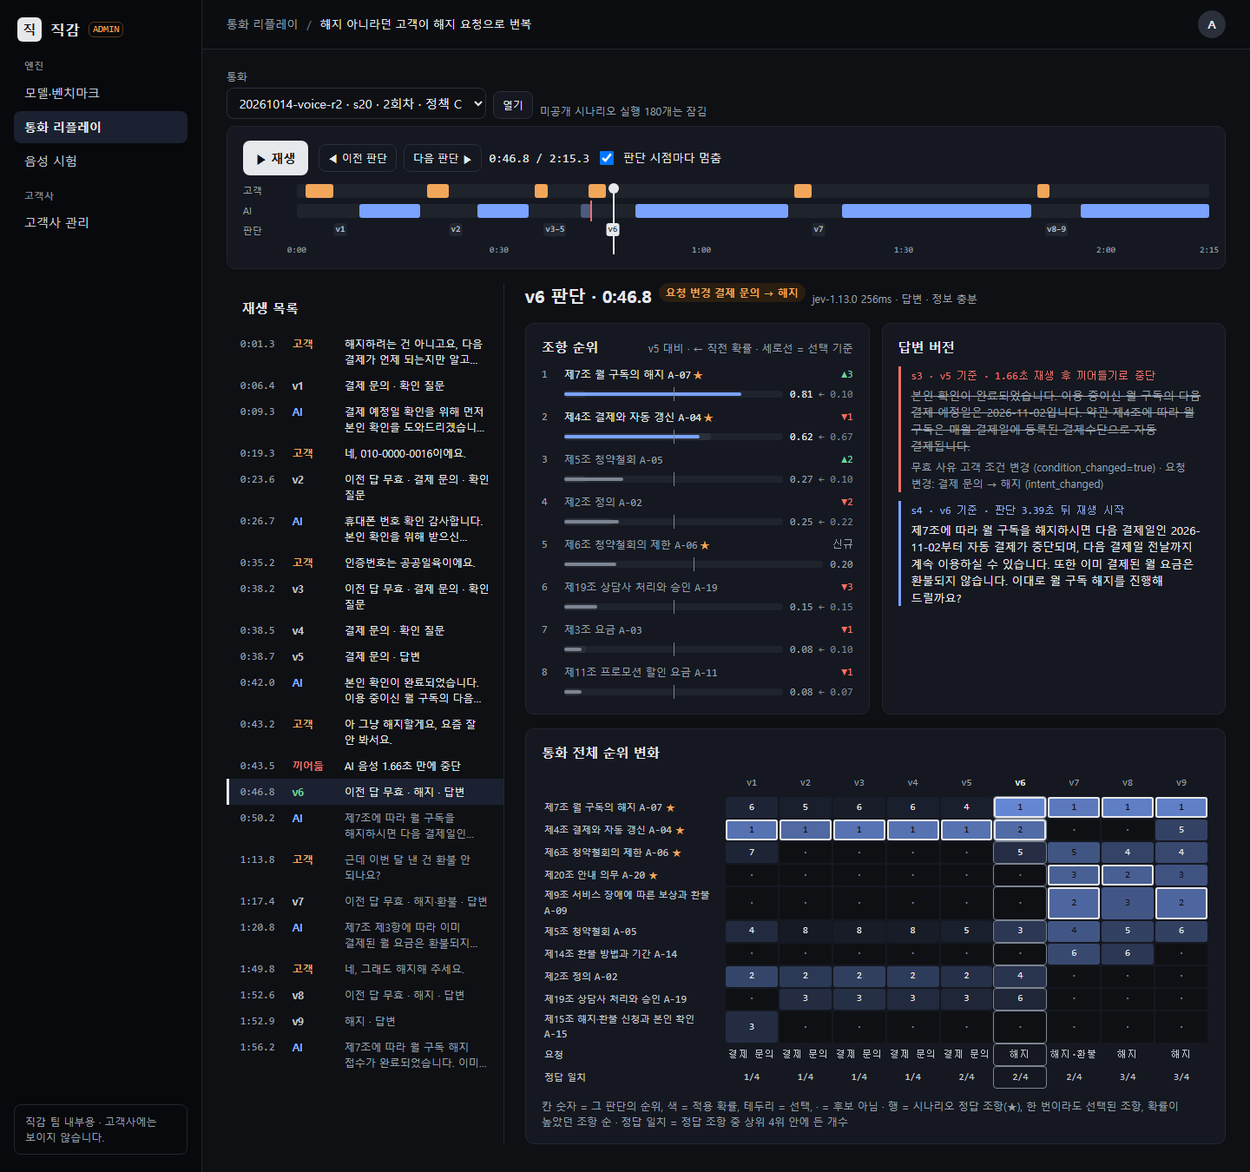
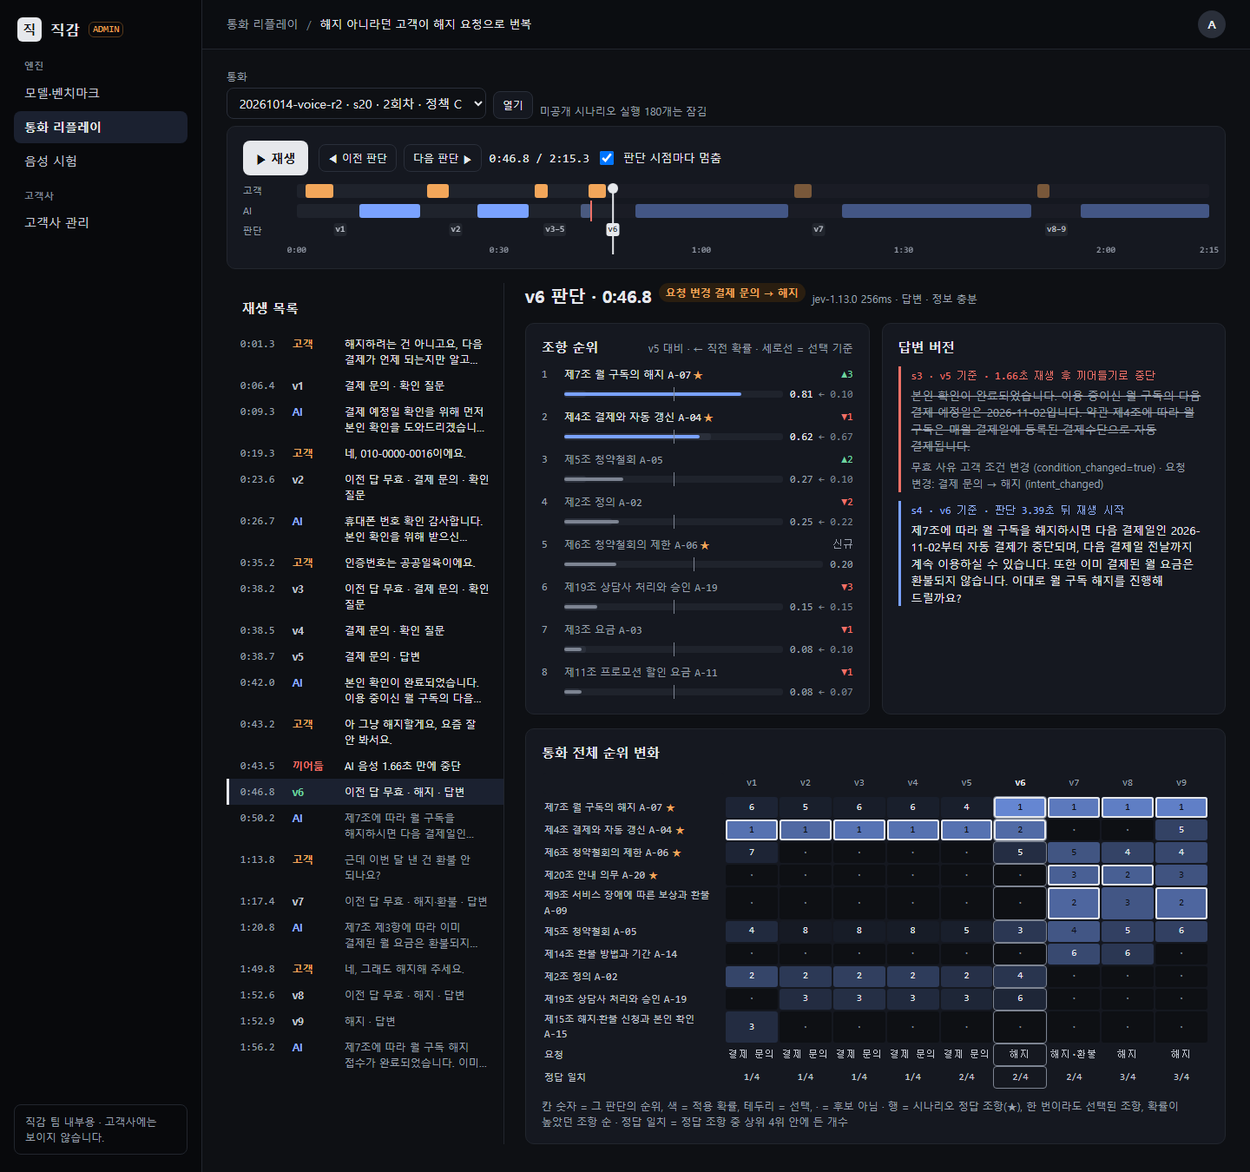
Make the replay player behave like a usual player
- The time beside the play button is now "current time / length" and ticks every 0.1 s while playing; it is the only text the script writes (ADR 0022 exception, allowed by the lint only on the marked line; unmarked text writes are still caught)
- The band dims the part not yet played, and the cursor and that veil move by transform from the band's --pct, so slow movement renders at sub-pixel positions instead of stepping one pixel at a time (112 of 121 frames at fractional positions over 2 s of playback); only the cursor layer is clipped, so the time ticks at both ends stay whole
- The harness accepts a focus ring drawn on an element's handle (::before/::after); 798 tests and the design harness pass

Changed region(s): [[0.5, 0.1556, 0.9688, 0.1867]]

diff --git a/jikgam/web/static/components.css b/jikgam/web/static/components.css
@@ -456,7 +456,9 @@ h2.pane-title { font-size: var(--text-lg); font-weight: var(--weight-semibold); 
 /* --- 관리 콘솔: 재생 띠, 재생 목록, 순위 ------------------------------------------------------------ */
 
 .lanes { display: grid; grid-template-columns: var(--size-play-kind) minmax(var(--space-0), 1fr); row-gap: var(--space-3); column-gap: var(--space-5); align-items: center; font-size: var(--text-xs); color: var(--color-text-muted); }
-.lane-track { position: relative; height: var(--size-track); background: var(--color-track); border-radius: var(--radius-xs); }
+.lane-track { position: relative; height: var(--size-track); background: var(--color-track); border-radius: var(--radius-xs); overflow-x: clip; }
+/* 아직 재생하지 않은 부분을 옅게 가린다. 띠 폭만 한 막을 지금 위치(--pct)만큼 오른쪽으로 민다 */
+.lane-ahead { position: absolute; inset: var(--space-0); transform: translateX(var(--pct)); background: var(--color-surface); opacity: var(--opacity-ahead); pointer-events: none; will-change: transform; }
 .lane-seg { position: absolute; top: var(--space-0); bottom: var(--space-0); left: var(--at); width: var(--len); border-radius: var(--radius-xs); }
 .lane-seg.customer { background: var(--color-caution); }
 .lane-cut { position: absolute; left: var(--at); top: calc(var(--space-2) * -1); bottom: calc(var(--space-2) * -1); width: var(--border-2); background: var(--color-negative); }
@@ -465,12 +467,19 @@ h2.pane-title { font-size: var(--text-lg); font-weight: var(--weight-semibold); 
 .lane-mark.is-current { background: var(--color-inverse); color: var(--color-on-inverse); }
 .lane-ticks { position: relative; height: var(--space-6); }
 .lane-tick { position: absolute; left: var(--at); transform: translateX(-50%); font-family: var(--font-mono); font-size: var(--text-2xs); color: var(--color-text-muted); }
-.lane-cursor { position: absolute; left: var(--at); top: calc(var(--size-track) * -4); bottom: var(--space-0); width: var(--border-2); background: var(--color-text); }
+/* 위치 선: 띠 폭만 한 투명한 막의 왼쪽 끝에 선을 그리고, 막을 지금 위치(--pct)만큼 민다. 막이 띠 밖으로 나간 부분은
+   위치 선만 감싼 층(lane-rail)에서 가로로 잘라 낸다(시간 눈금 글자는 자르지 않는다) */
+.lane-rail { position: absolute; left: var(--space-0); right: var(--space-0); top: calc(var(--size-track) * -4); bottom: var(--space-0); overflow-x: clip; pointer-events: none; }
+.lane-cursor { position: absolute; left: var(--space-0); width: 100%; top: var(--space-0); bottom: var(--space-0); transform: translateX(var(--pct)); will-change: transform; }
+.lane-cursor::after { content: ""; position: absolute; left: var(--space-0); top: var(--space-0); bottom: var(--space-0); width: var(--border-2); transform: translateX(-50%); background: var(--color-text); }
+.lane-cursor:focus-visible { outline: none; }
+.lane-cursor:focus-visible::before { outline: var(--size-focus) solid var(--color-focus); outline-offset: var(--size-focus); }
 /* 끌 수 있는 재생 띠: 띠 어디를 눌러도 옮기고, 위치 선 위쪽 손잡이로 끈다. 세로 스크롤은 그대로 둔다 */
 .lanes[data-scrub] { cursor: pointer; touch-action: pan-y; user-select: none; }
-.lanes[data-scrub] .lane-cursor::before { content: ""; position: absolute; top: calc(var(--space-3) * -1); left: 50%; width: var(--space-6); height: var(--space-6); transform: translateX(-50%); border-radius: var(--radius-round); background: var(--color-text); }
+.lanes[data-scrub] .lane-cursor::before { content: ""; position: absolute; top: calc(var(--space-3) * -1); left: var(--space-0); width: var(--space-6); height: var(--space-6); transform: translateX(-50%); border-radius: var(--radius-round); background: var(--color-text); }
 .lanes.c-scrubbing { cursor: grabbing; }
-.lanes.c-scrubbing .lane-cursor, .lanes.c-playing .lane-cursor { transition: none; }  /* 끌거나 재생 중이면 선이 시각을 바로 따른다 */
+.lanes.c-scrubbing .lane-cursor, .lanes.c-playing .lane-cursor, .lanes.c-scrubbing .lane-ahead, .lanes.c-playing .lane-ahead { transition: none; }  /* 끌거나 재생 중이면 시각을 바로 따른다 */
+.play-time { font-family: var(--font-mono); font-variant-numeric: tabular-nums; white-space: nowrap; }
 
 .playlist { display: flex; flex-direction: column; }
 .play-item { display: grid; grid-template-columns: var(--size-play-time) var(--size-play-kind) minmax(var(--space-0), 1fr); gap: var(--space-4); padding: var(--space-3) var(--space-8); font-size: var(--text-sm); color: var(--color-text-muted); text-decoration: none; }
@@ -691,7 +700,7 @@ button.play-item { width: 100%; border: none; background: none; font: inherit; f
 .link-list li.is-current a { color: var(--color-accent-strong); font-weight: var(--weight-semibold); }
 
 /* 관리 콘솔 리플레이: 재생 위치 선이 다음 판단 위치로 미끄러진다. 순위 행 이동과 막대 길이는 console.js가 같은 토큰으로 움직인다 */
-.lane-cursor { transition: left var(--motion-slow) var(--ease-standard); }
+.lane-cursor, .lane-ahead { transition: transform var(--motion-slow) var(--ease-standard); }
 
 /* 막대: 처음 그릴 때 0에서 자라고, 같은 화면 안에서 값이 바뀌면 새 길이로 늘거나 준다 */
 @keyframes bar-grow {

diff --git a/jikgam/web/static/console.js b/jikgam/web/static/console.js
@@ -14,8 +14,9 @@
 //                         보내는 GET 폼은 문서를 새로 열지 않고 이 영역에서 바뀐 부분만 맞춘다. data-key가 같은 순위 행·표 행·
 //                         목록 항목은 새 자리로 옮겨 가고 막대는 새 길이로 바뀐다. 다른 화면으로 가는 링크는 CSS 화면 전환으로 연다
 //   data-listen="audio id" 누르면 그 녹음을 data-audio-at 요소가 가리키는 지금 위치부터 재생하거나 멈춘다
-//   data-cursor           재생 위치를 전체 길이 대비 비율(--at)로 옮긴다. 녹음을 불러온 뒤에는 영역을 바꿔도 서버 값으로
-//                         되돌리지 않는다
+//   data-cursor           재생 위치 선. 위치는 재생 띠의 --pct(전체 길이 대비 %)이고 transform으로 움직여 느려도 부드럽다.
+//                         녹음을 불러온 뒤에는 영역을 바꿔도 서버 값으로 되돌리지 않는다
+//   data-play-time        재생기의 지금 재생 시각. 스크립트가 고쳐 쓰는 유일한 글자다(ADR 0022 예외)
 //   data-scrub            재생 띠. 누르거나 끌면 그 위치로 옮긴다. 위치 선은 키보드 슬라이더다(←/→ data-step 초,
 //                         PageUp/PageDown 판단 하나, Home/End). 끄는 동안 화면은 움직임 없이 바로 바뀐다
 //   data-decisions        재생기의 판단 시각 목록. 재생하거나 위치를 옮기면 그 시각 직전의 판단 화면(data-decision-href 뒤에
@@ -69,7 +70,8 @@
   var cursorLive = false;  // 녹음을 불러온 뒤에는 재생 위치 선의 위치와 값을 재생기가 맡는다
 
   function userOwned(el, name) {
-    if (cursorLive && (name === "style" || name === "aria-valuenow") && el.hasAttribute("data-cursor")) return true;
+    if (cursorLive && name === "style" && el.hasAttribute("data-scrub")) return true;
+    if (cursorLive && name === "aria-valuenow" && el.hasAttribute("data-cursor")) return true;
     // 재생·듣기 버튼의 눌림 상태는 소리가 정한다(재생 중에 영역을 바꿔도 서버가 그린 '멈춤' 상태로 되돌리지 않는다)
     if (name === "aria-pressed" && (el.hasAttribute("data-play") || el.hasAttribute("data-listen"))) return true;
     return keepOpen && name === "open" && el.nodeName === "DETAILS";
@@ -348,11 +350,7 @@
       return audio.duration || parseFloat((lanes && lanes.getAttribute("data-duration")) || "");
     }
     function place(t) {
-      var cursor = document.querySelector("[data-cursor]");
-      var d = total();
-      if (!cursor || !d) return;
-      cursor.style.setProperty("--at", Math.min(100, (t / d) * 100) + "%");
-      if (cursor.hasAttribute("aria-valuenow")) cursor.setAttribute("aria-valuenow", t.toFixed(1));
+      moveTo(t, total());
     }
     function decisionAt(t) {
       var idx = 1;
@@ -768,6 +766,24 @@
     });
   }
 
+  // 재생 위치(초)를 화면에 둔다: 재생 띠의 --pct(위치 선과 남은 부분 가림막이 따라 움직인다), 슬라이더 값, 지금 재생 시각
+  var shownTime = null;
+
+  function moveTo(t, d) {
+    if (!d) return;
+    var lanes = document.querySelector("[data-scrub]") || document.querySelector(".lanes");
+    if (lanes) lanes.style.setProperty("--pct", Math.min(100, Math.max(0, (t / d) * 100)) + "%");
+    var cursor = document.querySelector("[data-cursor]");
+    if (cursor && cursor.hasAttribute("aria-valuenow")) cursor.setAttribute("aria-valuenow", t.toFixed(1));
+    var now = document.querySelector("[data-play-time]");
+    var tenths = Math.floor(t * 10);
+    if (!now || tenths === shownTime) return;
+    shownTime = tenths;
+    var sec = Math.floor(tenths / 10) % 60;
+    var text = Math.floor(tenths / 600) + ":" + String(100 + sec).slice(1) + "." + (tenths % 10);
+    now.textContent = text;  // ADR 0022 예외: 재생 시각(기록의 수치가 아니라 재생기 상태)
+  }
+
   // 재생 띠: 누르거나 끌면 그 위치로 옮긴다(재생 중이었으면 놓은 뒤 이어서 재생). 위치 선은 키보드 슬라이더다
   function scrubber(lanes) {
     var dragging = false;
@@ -782,8 +798,7 @@
       var d = total(a);
       if (!a || !d) return;
       a.currentTime = Math.max(0, Math.min(d, t));
-      var cursor = lanes.querySelector("[data-cursor]");
-      if (cursor) cursor.style.setProperty("--at", (a.currentTime / d) * 100 + "%");
+      moveTo(a.currentTime, d);
     }
     function at(x) {
       var track = lanes.querySelector(".lane-track");

diff --git a/jikgam/web/static/tokens.css b/jikgam/web/static/tokens.css
@@ -113,6 +113,7 @@
   --ease-exit: cubic-bezier(0.4, 0, 1, 1);
   --ease-move: cubic-bezier(0.4, 0, 0.2, 1);  /* 자리를 옮기는 움직임(처음과 끝이 느리다) */
   --motion-rise: var(--space-2);  /* 새 줄이 올라오며 나타나는 거리 */
+  --opacity-ahead: 0.55;          /* 재생 띠에서 아직 재생하지 않은 부분을 가리는 정도 */
 }
 
 @media (prefers-reduced-motion: reduce) {

diff --git a/jikgam/web/ui/components.py b/jikgam/web/ui/components.py
@@ -583,6 +583,11 @@ def player(src: str, label: str, start: float | None = None, stops: Sequence[flo
                h("span", {"class": "play-on"}, "▶ 재생"), h("span", {"class": "play-off"}, "❚❚ 멈춤")), controls)
 
 
+def play_time(now: Node, total: Node) -> Markup:
+    """재생기의 '지금 재생 시각 / 전체 길이'. 재생하거나 위치를 옮기면 스크립트가 지금 시각을 고쳐 쓴다(ADR 0022 예외)."""
+    return h("span", {"class": "play-time"}, h("span", {"data-play-time": True}, now), " / ", total)
+
+
 def toggle(name: str, label: str, checked: bool = False, **data: str) -> Markup:
     """켜고 끄는 상자 하나(판단 시점마다 멈춤 등)."""
     return h("label", {"class": "check-option"},
@@ -661,7 +666,8 @@ def lanes(rows: Sequence[Lane], marks: Sequence[Mark], cursor: float | None, tic
         out.append(h("div", {"class": "lane-track"},
                      *[h("span", {"class": f"lane-seg {s.tone}", "style": _style_vars(at=s.at, len=s.len)}) for s in ln.segs],
                      *([h("span", {"class": "lane-cut", "style": _style_vars(at=c)}) for c in cuts]
-                       if ln is rows[-1] else [])))
+                       if ln is rows[-1] else []),
+                     h("span", {"class": "lane-ahead", "aria-hidden": "true"}) if scrub else None))
     out.append(h("span", {"class": "lane-label"}, "판단"))
     out.append(h("div", {"class": "lane-marks"}, *[
         (h("a", {"class": classes("lane-mark", "is-current" if m.current else None), "href": m.href,
@@ -670,12 +676,14 @@ def lanes(rows: Sequence[Lane], marks: Sequence[Mark], cursor: float | None, tic
                                    "style": _style_vars(at=m.at)}, m.label)) for m in marks]))
     out.append(h("span", {"class": "lane-label"}))
     out.append(h("div", {"class": "lane-ticks"},
-                 h("span", {"class": "lane-cursor", "style": _style_vars(at=cursor), "data-cursor": True, "data-key": "cursor",
-                            **({"role": "slider", "tabindex": "0", "aria-label": "재생 위치(초)", "aria-valuemax": f"{scrub[0]:.1f}",
-                                "aria-valuenow": f"{scrub[1]:.1f}"} if scrub else {})})
+                 h("span", {"class": "lane-rail"},
+                   h("span", {"class": "lane-cursor", "data-cursor": True, "data-key": "cursor",
+                              **({"role": "slider", "tabindex": "0", "aria-label": "재생 위치(초)",
+                                  "aria-valuemax": f"{scrub[0]:.1f}", "aria-valuenow": f"{scrub[1]:.1f}"} if scrub else {})}))
                  if cursor is not None else None,
                  *[h("span", {"class": "lane-tick", "style": _style_vars(at=at)}, t) for at, t in ticks]))
     return h("div", {"class": "lanes", "role": "group", "aria-label": label,
+                     "style": _style_vars(pct=cursor),
                      **({"data-scrub": True, "data-duration": f"{scrub[0]:.3f}", "data-step": f"{scrub[2]:.3f}"} if scrub else {})},
              *out)
 

diff --git a/jikgam/web/ui/lint.py b/jikgam/web/ui/lint.py
@@ -51,6 +51,8 @@ STYLE_VARS = re.compile(r"--(pct|at|len|alpha)")
 JS_STRING = re.compile(r"""(?P<q>["'`])(?P<s>(?:\\.|(?!(?P=q)).)*)(?P=q)""", re.S)
 JS_COMMENT = re.compile(r"//[^\n]*|/\*.*?\*/", re.S)
 JS_TEXT = re.compile(r"\.(textContent|innerText)\s*=|createTextNode|insertAdjacentText")
+# 재생기의 지금 재생 시각만 JS가 고쳐 쓴다(기록의 수치가 아니라 재생기 상태다, ADR 0022 예외). 그 줄에 이 표시를 둔다
+JS_TEXT_EXCEPTION = "ADR 0022 예외: 재생 시각"
 JS_HTML = re.compile(r"\.(innerHTML|outerHTML)\s*=(?!=)(?!\s*html\b)")
 JS_STYLE = re.compile(r"\.style\b(?!\.setProperty\(\s*[\"']--(at|pct)[\"'])")
 
@@ -139,10 +141,14 @@ def lint_js(text: str, path: str) -> list[Problem]:
             probs.append(Problem(path, ln, "px", f"px 값이 든 문자열 {s[:40]!r}"))
         elif DIGIT.search(s):
             probs.append(Problem(path, ln, "digit", f"숫자가 든 문자열 {s[:40]!r}"))
+    lines = text.splitlines()
     for rx, rule, msg in ((JS_TEXT, "js-text", "JS가 글자를 만든다"), (JS_HTML, "js-html", "html 조각이 아닌 값을 HTML로 넣는다"),
                           (JS_STYLE, "style", "style 대입(--at, --pct의 setProperty만 허용)")):
         for m in rx.finditer(clean):
-            probs.append(Problem(path, _line(clean, m.start()), rule, msg))
+            ln = _line(clean, m.start())
+            if rule == "js-text" and JS_TEXT_EXCEPTION in lines[ln - 1]:
+                continue
+            probs.append(Problem(path, ln, rule, msg))
     return probs
 
 

diff --git a/jikgam/web/admin/replay.py b/jikgam/web/admin/replay.py
@@ -73,8 +73,8 @@ def band(r: rp.Replay, cur: rp.Decision, s: rp.Session, audio: str | None) -> An
     prev = ui.button("◀ 이전 판단", href=href(s, idx - 1), size="sm", disabled=idx <= 1, key="prev")
     nxt = ui.button("다음 판단 ▶", href=href(s, idx + 1), size="sm", disabled=idx >= len(r.decisions), key="next")
     stop = ui.toggle("stop", "판단 시점마다 멈춤", True, stop_toggle="yes")
-    controls = ui.row(prev, nxt, ui.text(ui.joined(fmt.clock(cur.at_s, tenths=True), fmt.clock(r.duration_s, tenths=True),
-                                                   sep=" / "), mono=True), stop, gap="sm")
+    controls = ui.row(prev, nxt, ui.play_time(fmt.clock(cur.at_s, tenths=True), fmt.clock(r.duration_s, tenths=True)), stop,
+                      gap="sm")
     lanes = ui.lanes(
         [ui.Lane("고객", [ui.Seg(pct(r, a), pct(r, b - a), "customer") for a, b, _ in r.customer]),
          ui.Lane("AI", [ui.Seg(pct(r, a), pct(r, b - a), "series-b" if ans.invalidated_at is not None and ans.cut else "series-a")

diff --git a/scripts/ui_check.py b/scripts/ui_check.py
@@ -121,8 +121,10 @@ def ready_state(path: str) -> str:
 
 
 def focus_visible(page: Page) -> None:
+    # 포커스 테두리는 요소에, 또는 요소가 그리는 손잡이(::before, ::after, 예: 재생 띠의 위치 선)에 있으면 된다
     ok = page.evaluate("""() => { const el = document.activeElement; if (!el) return false;
-        const s = getComputedStyle(el); return s.outlineStyle !== 'none' && parseFloat(s.outlineWidth) > 0; }""")
+        return [null, '::before', '::after'].some(p => { const s = getComputedStyle(el, p);
+          return s.outlineStyle !== 'none' && parseFloat(s.outlineWidth) > 0; }); }""")
     if not ok:
         raise AssertionError("포커스가 보이지 않는다(outline 없음)")
 

diff --git a/tests/test_design_lint.py b/tests/test_design_lint.py
@@ -48,6 +48,9 @@ def test_js_rules():
     got = lint.lint_js(js, "x.js")
     assert rules(got) == ["digit", "js-html", "js-text", "style"]
     assert sum(p.rule == "js-html" for p in got) == 1
+    # 재생 시각 한 곳만 예외 표시로 허용한다. 표시가 없는 줄은 그대로 잡는다
+    marked = 'now.textContent = clock(t);  // ' + lint.JS_TEXT_EXCEPTION + '\nother.textContent = clock(t);\n'
+    assert [(p.rule, p.line) for p in lint.lint_js(marked, "x.js")] == [("js-text", 2)]
 
 
 def test_page_code_rules():

diff --git a/docs/design/components.md b/docs/design/components.md
@@ -36,7 +36,7 @@
 | `bar`, `bar_list`, `stack_bar` (`Part`) | 운영 리포트의 사유별 건수와 처리 결과 비율 |
 | `conversation` (`Turn`, `Divider`, `Reveal`) | 대화와 그 사이의 "요청 변경" 한 줄, 녹음 위치에 맞춘 강조, 말 아래 근거 조항. 줄 이름(`key`)으로 갱신 때 이미 있는 줄을 그대로 둔다. 실시간 통화에서는 따로 스크롤되는 영역(`follow`)과 시계(`now_ms`, `running`)를 두고, 말하는 중인 답(`Reveal`)은 기록된 재생 시각에 맞춰 글자를 차례로 드러낸다 |
 | `item_list` (`ListItem`) | 진행 중인 통화 목록, 고객사 고르기(가로 카드) |
-| `player`, `listen_source`, `toggle` | 녹음 재생(다시 듣기는 기본 컨트롤, 리플레이는 재생 버튼), 실시간 통화의 통화 듣기, 판단 시점마다 멈춤. 리플레이 재생기는 판단 시각(`decisions`)을 알아, 재생하거나 위치를 옮기면 화면이 그 시각 직전의 판단으로 바뀐다(주소만 갈아 끼우고 뒤로 가기 기록은 쌓지 않는다) |
+| `player`, `play_time`, `listen_source`, `toggle` | 녹음 재생(다시 듣기는 기본 컨트롤, 리플레이는 재생 버튼), 실시간 통화의 통화 듣기, 판단 시점마다 멈춤. 리플레이 재생기는 판단 시각(`decisions`)을 알아, 재생하거나 위치를 옮기면 화면이 그 시각 직전의 판단으로 바뀐다(주소만 갈아 끼우고 뒤로 가기 기록은 쌓지 않는다). `play_time`은 '지금 재생 시각 / 전체 길이'이고 지금 시각은 스크립트가 고쳐 쓴다(ADR 0022 예외). 재생 띠의 위치 선과 아직 재생하지 않은 부분의 가림막은 `--pct`를 따라 transform으로 움직인다 |
 | `live`, `slot` | 실시간 통화의 갱신. 서버가 만든 문서를 다시 받아 지정한 영역에서 바뀐 부분만 맞춘다(JS는 글자를 만들지 않는다). 이미 있는 요소는 그대로 두므로 상태 색이 CSS 전환으로 바뀐다 |
 | `lanes` (`Lane`, `Seg`, `Mark`), `playlist` (`PlayItem`) | 통화 리플레이의 재생 띠(화자별 구간, 판단 표시, 끼어들기, 지금 위치)와 재생 목록. 녹음이 있으면 띠를 누르거나 끌어 위치를 옮기고, 위치 선은 키보드 슬라이더다(`scrub`). 재생 목록의 발화 줄은 그 위치부터 재생한다(`seek`) |
 | `rank_bars` (`RankRow`, 행 이름 `key`), `heatmap` (`HeatCell`), `version_block` | 통화 리플레이의 조항 순위와 직전 대비 변화, 조항 × 판단 순위 표, 무효가 된 답과 새 답 |

diff --git a/PROGRESS.md b/PROGRESS.md
@@ -1087,6 +1087,7 @@ val에서 고른 값(답이 있는 val 77개, 근거 항목 118개의 근거 재
 - 확인: Chromium에서 띠 누르기·끌기, 재생 중 v2→v5 자동 전환과 순위 움직임, 키보드 조작, 기록이 쌓이지 않는 것. 엔진·기록·수치는 바꾸지 않았다.
 - 재생 버튼이 재생 중에 '▶ 재생'으로 보이던 문제: 판단을 따라 영역을 바꿀 때 버튼의 눌림 상태를 서버가 그린 '멈춤' 상태로 덮어썼다. 재생·통화 듣기 버튼의 눌림 상태는 소리가 정하고 영역을 바꿔도 덮어쓰지 않는다(Chromium에서 재생·멈춤·판단 시점 멈춤·띠 끌기 동안 어긋남 없음).
 - 재생 위치 선이 끊겨 보이던 문제: 재생 시각 알림(초당 약 4번)마다 0.32초 전환이 새로 시작되어 빨라졌다 느려지기를 반복했다(프레임당 이동 최대/중간 0.44/0.09px). 재생 중에는 화면을 그릴 때마다 실제 재생 시각에 선을 두고 전환을 끈다(0.23/0.13px, 판단 경계를 넘으며 화면을 바꿀 때도 가장 긴 프레임 간격 17ms).
+- 일반 재생기처럼: 재생기 옆 시각을 '지금 재생 시각 / 전체 길이'로 바꾸고 재생 중 0.1초마다 갱신한다(이 글자만 JS가 고쳐 쓴다, ADR 0022 예외와 린트 예외 표시). 재생 띠는 아직 재생하지 않은 부분을 옅게 가린다. 위치 선은 `left` 대신 transform으로 옮겨 1px씩 넘어가지 않고 픽셀 사이 위치로 움직인다(재생 중 2초 121프레임 중 112프레임이 픽셀 사이 위치).
 
 ## 다음 할 일
 

diff --git a/docs/adr/0022-디자인-하네스.md b/docs/adr/0022-디자인-하네스.md
@@ -47,6 +47,10 @@
    - 시안 및 다른 화면과 간격, 정렬, 용어가 일관적인가.
    - 고객사 화면에 내부 관리용 정보가 섞였는가.
 
+### 예외(2026-10-19)
+
+- 통화 리플레이 재생기의 지금 재생 시각(`data-play-time`)만 JS가 고쳐 쓴다. 기록에서 나온 수치가 아니라 재생기의 상태여서, 재생하는 동안 서버가 그릴 수 없다. 처음 값은 서버가 형식 함수로 그리고, 린트는 그 줄의 `ADR 0022 예외: 재생 시각` 표시가 있을 때만 글자 쓰기를 허용한다(`jikgam/web/ui/lint.py`의 `JS_TEXT_EXCEPTION`). 다른 글자는 그대로 서버가 만든다.
+
 ## 검토한 대안
 
 - **Jinja 같은 템플릿 엔진:** 템플릿 안의 숫자와 색을 따로 파싱해야 한다. 화면 코드를 Python 함수로 두면 AST로 문자열 상수를 검사하고, 숫자를 형식 함수 밖으로 내보내지 못하게 막을 수 있다.

diff --git a/docs/design/screens/changes.md b/docs/design/screens/changes.md
@@ -2,7 +2,7 @@
 
 `scripts/ui_check.py`가 마지막으로 찍은 결과다. 바뀐 화소는 직전 스크린샷과 비교한 비율이다(처음 찍은 화면은 -, 크기가 바뀌면 100%).
 
-찍은 시각: 2026-10-19 09:36
+찍은 시각: 2026-10-19 10:20
 
 | 화면 | 이름 | 폭 | 바뀐 화소 | axe 심각 이상 | 금지어 | 키보드 흐름 |
 |---|---|---|---|---|---|---|
